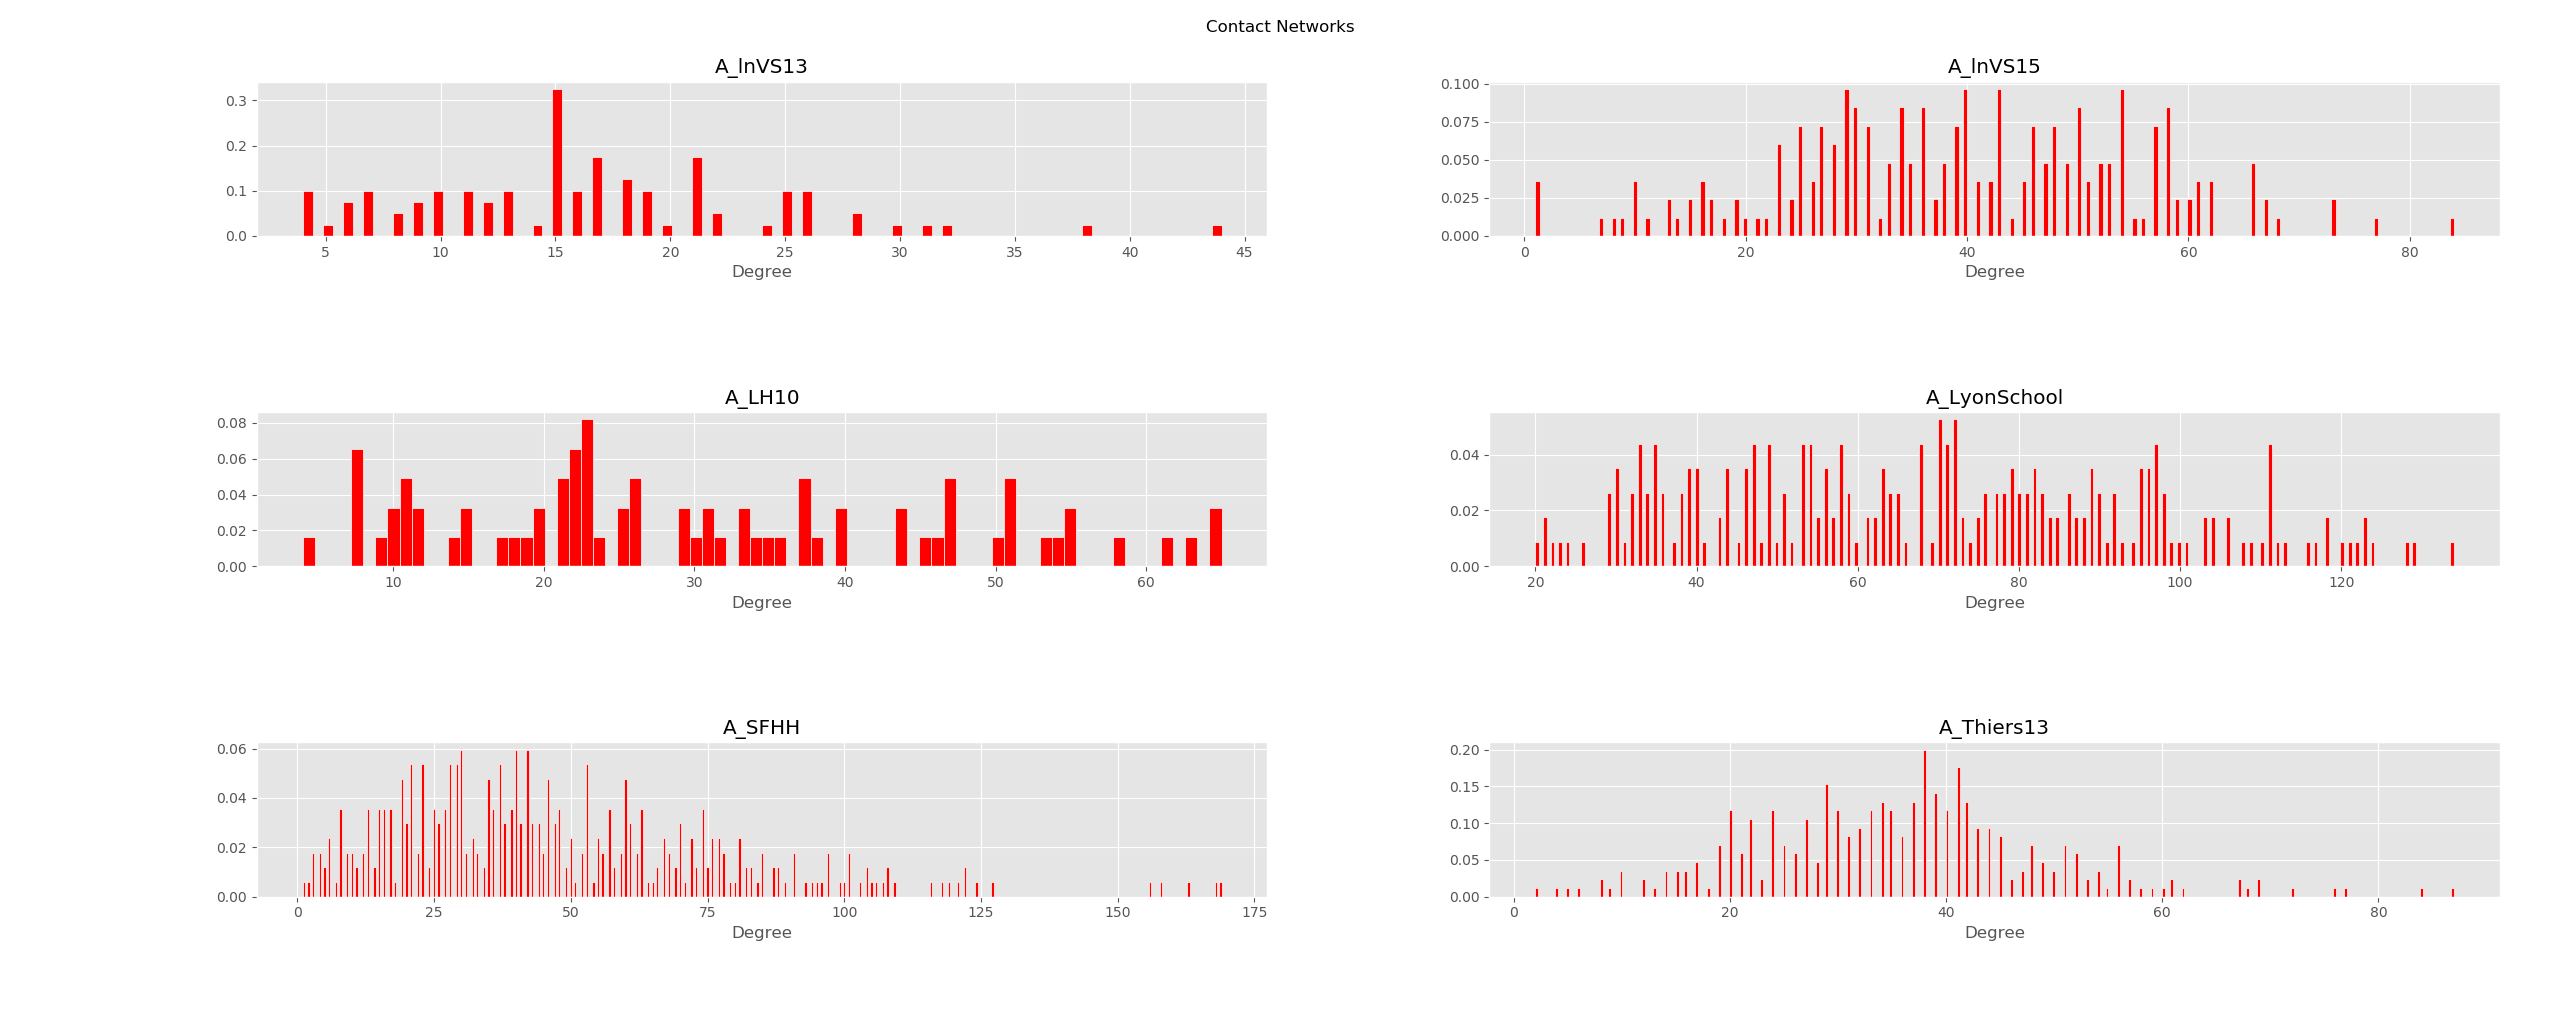
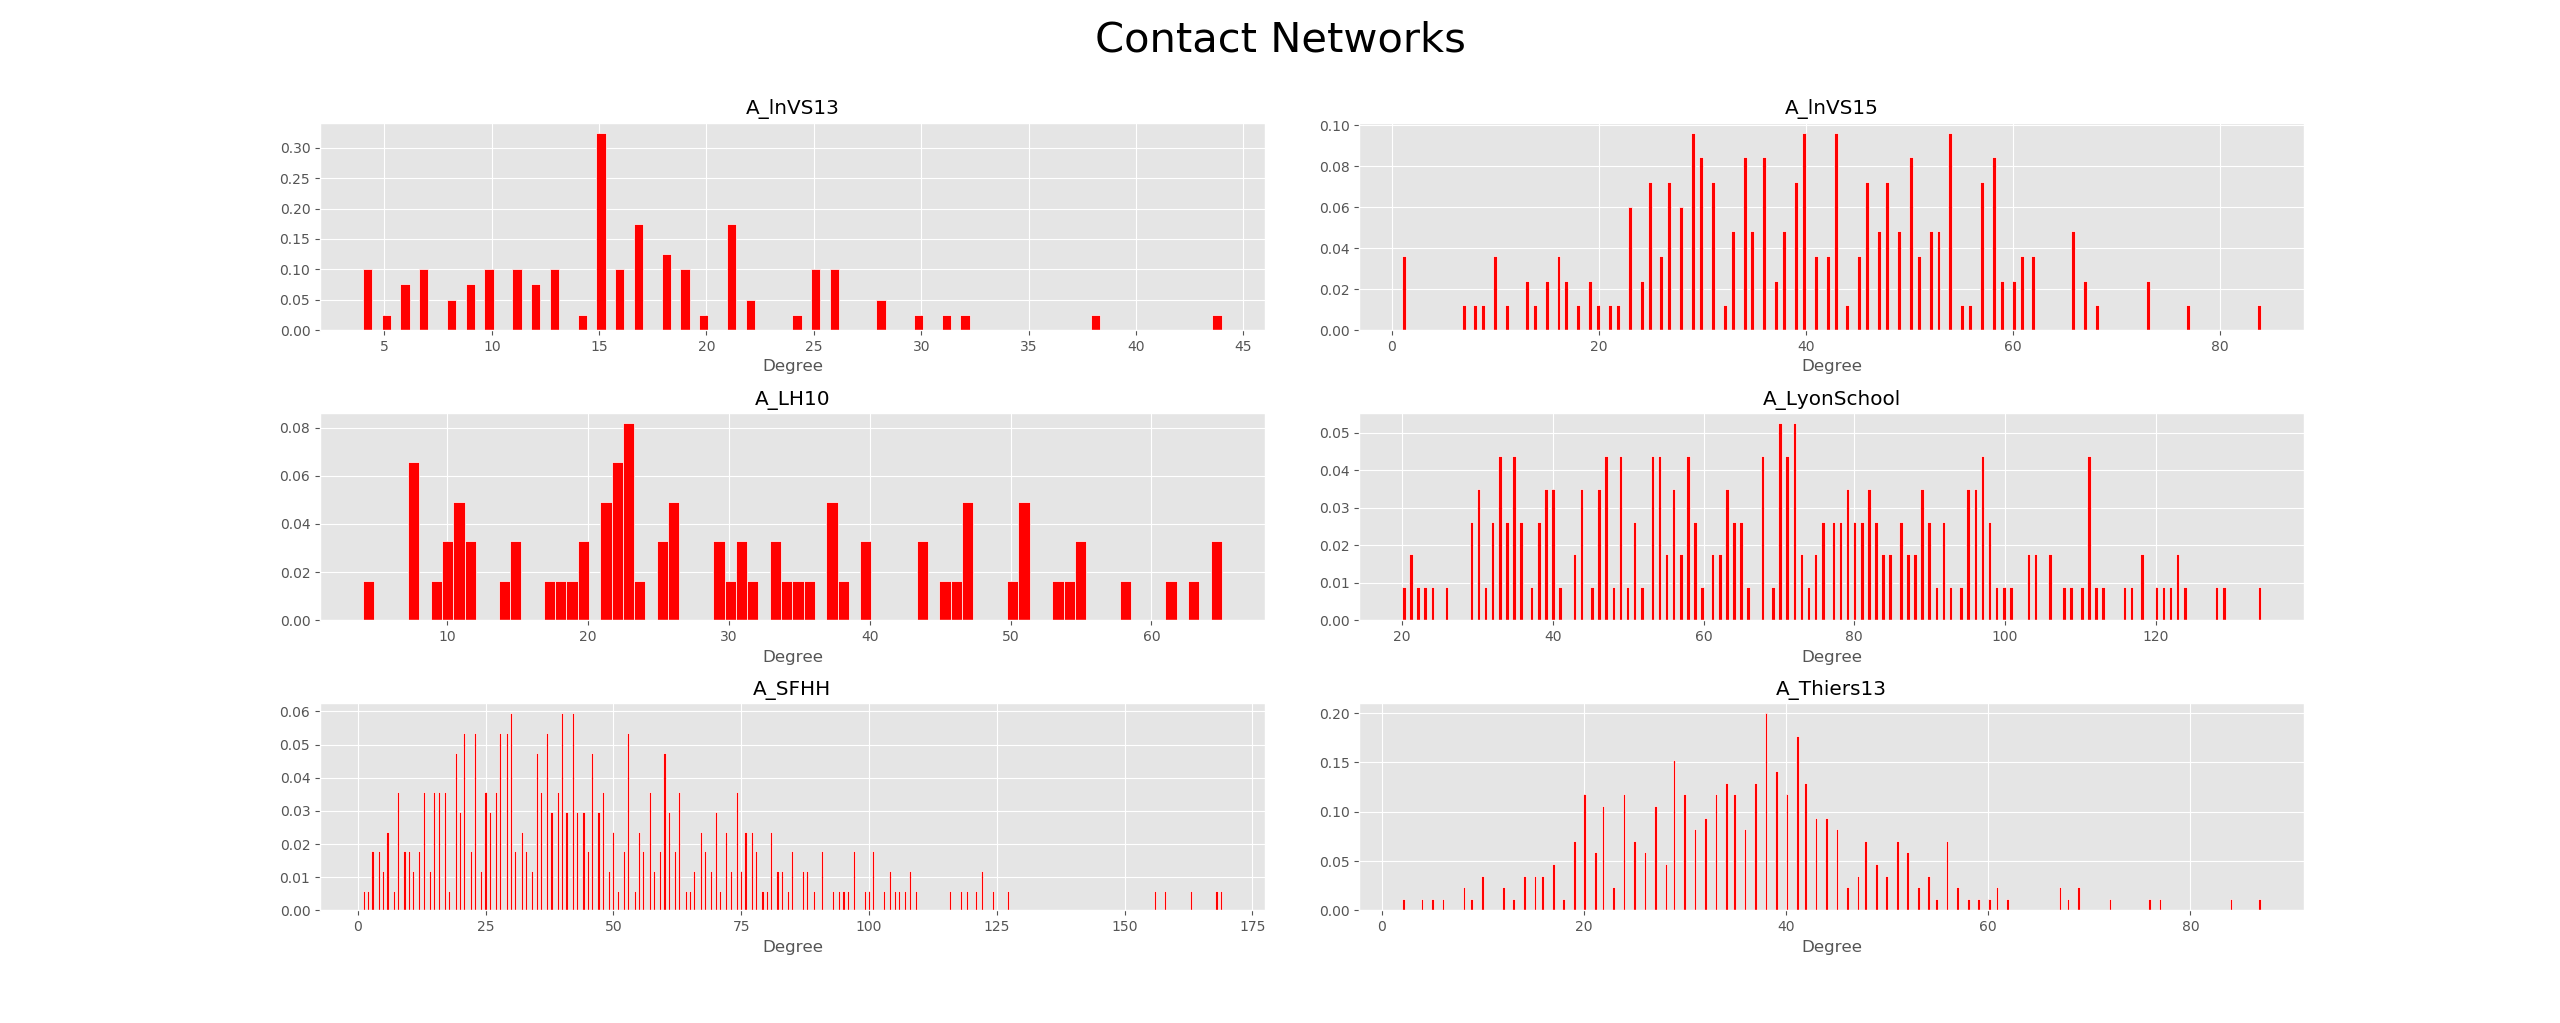
figures

diff --git a/main.py b/main.py
@@ -8,7 +8,7 @@ pres_filenames = ['A_pres_InVS13', 'A_pres_InVS15', 'A_pres_LH10', 'A_pres_LyonS
 cont_filenames = ['A_lnVS13', 'A_lnVS15', 'A_LH10', 'A_LyonSchool', 'A_SFHH', 'A_Thiers13']
 
 # Choosing Contact vs. Presence Network
-contact = False
+contact = True
 
 # Defining variables for type of network
 if contact == True:
